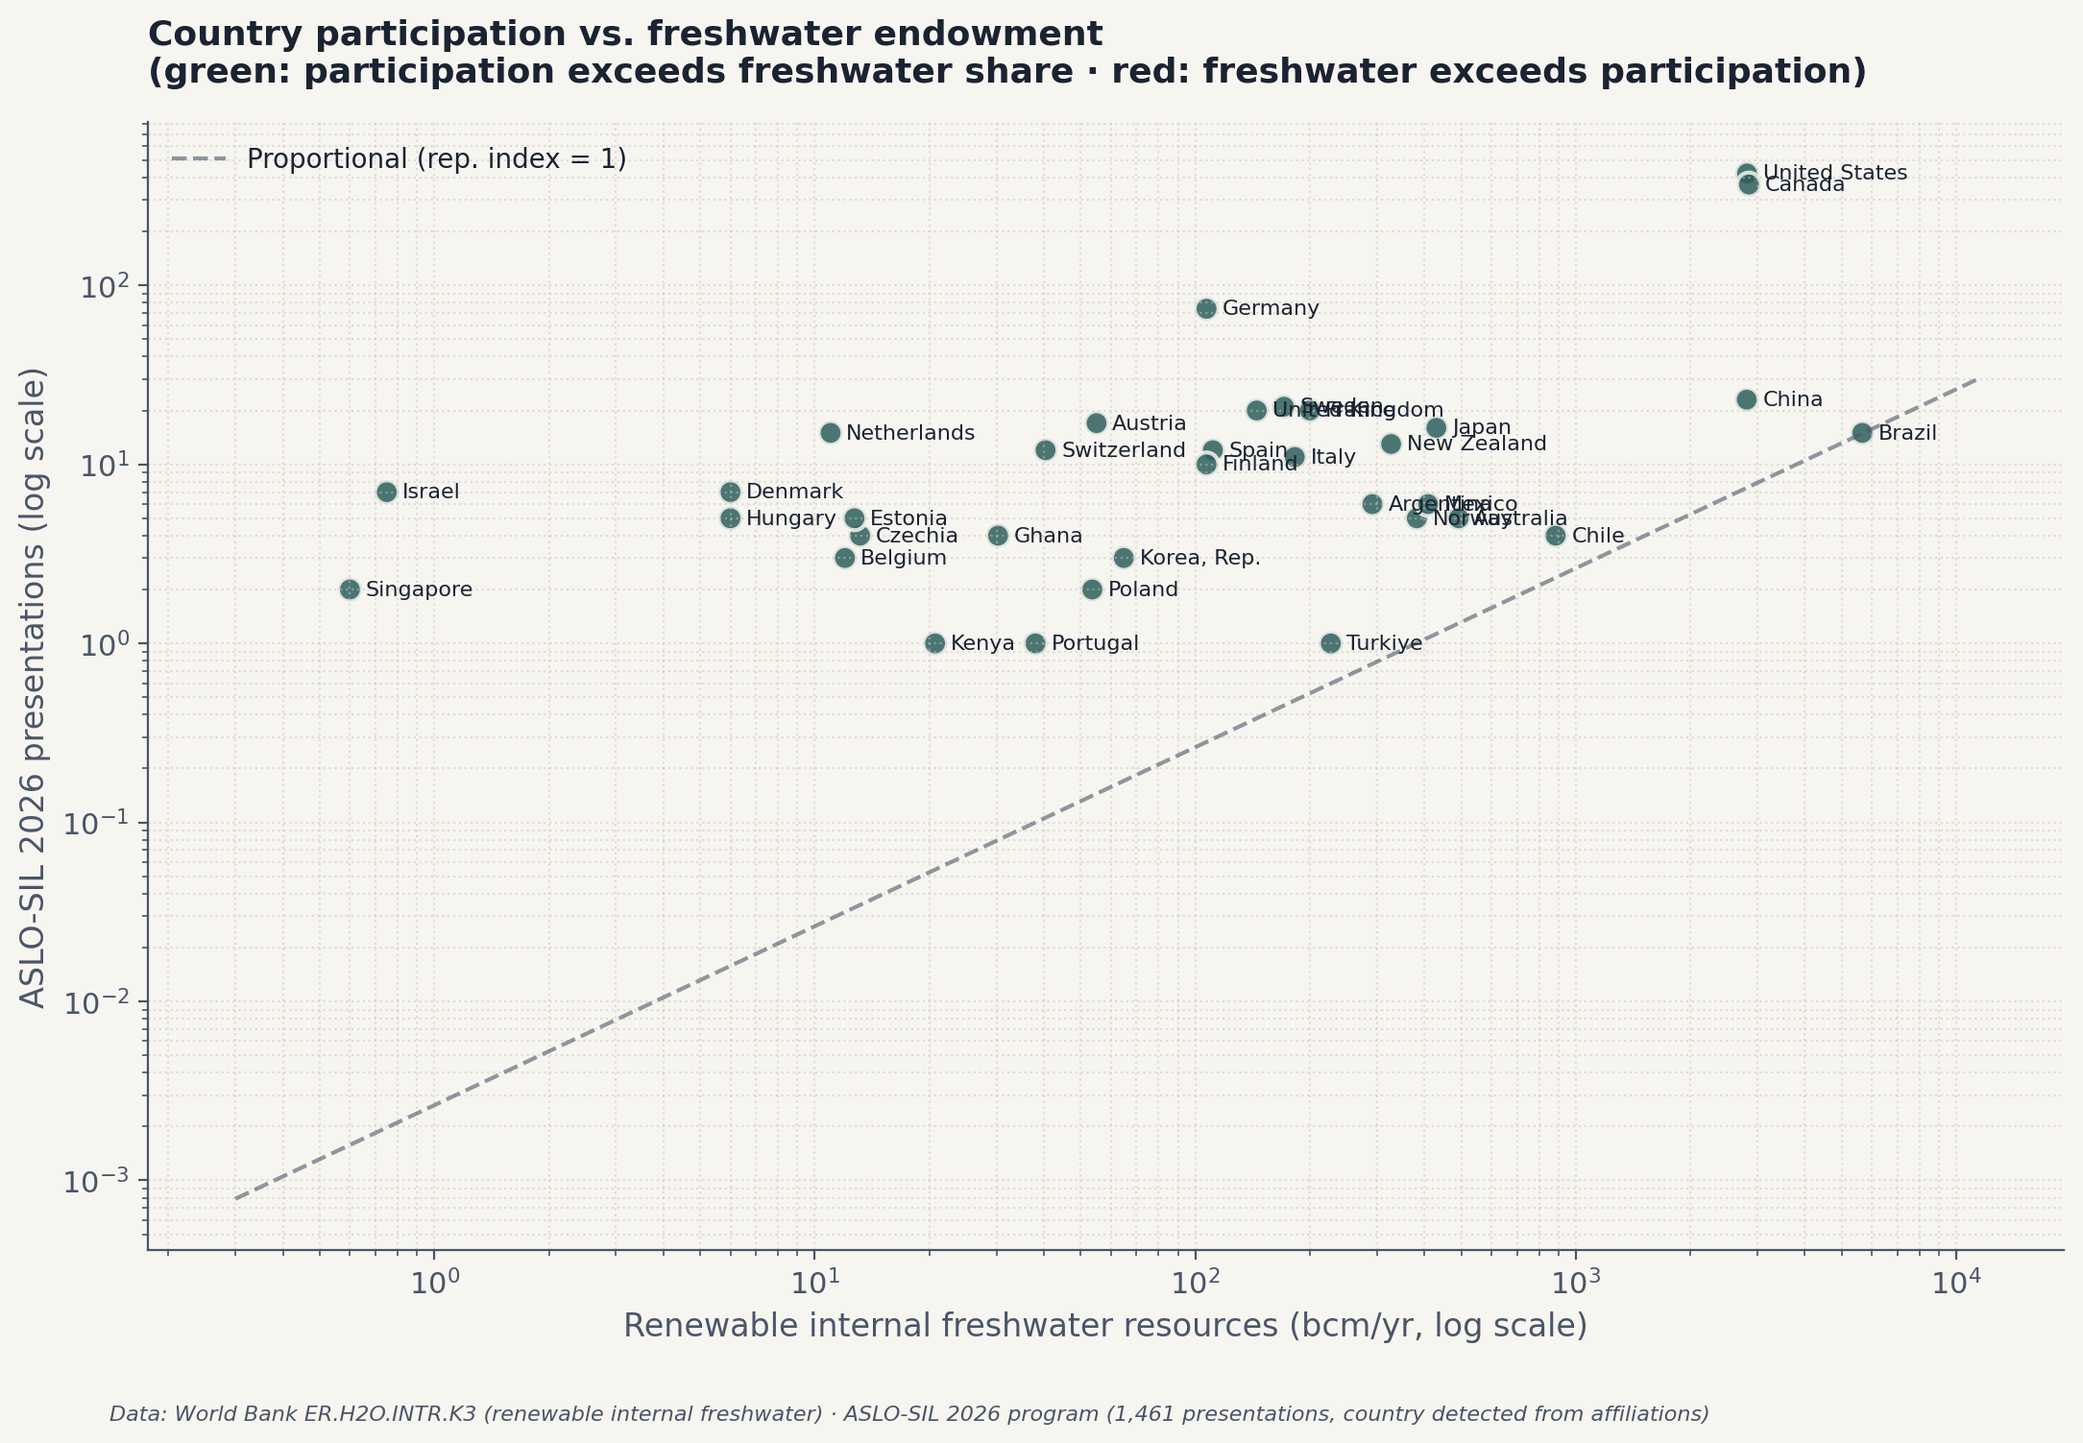
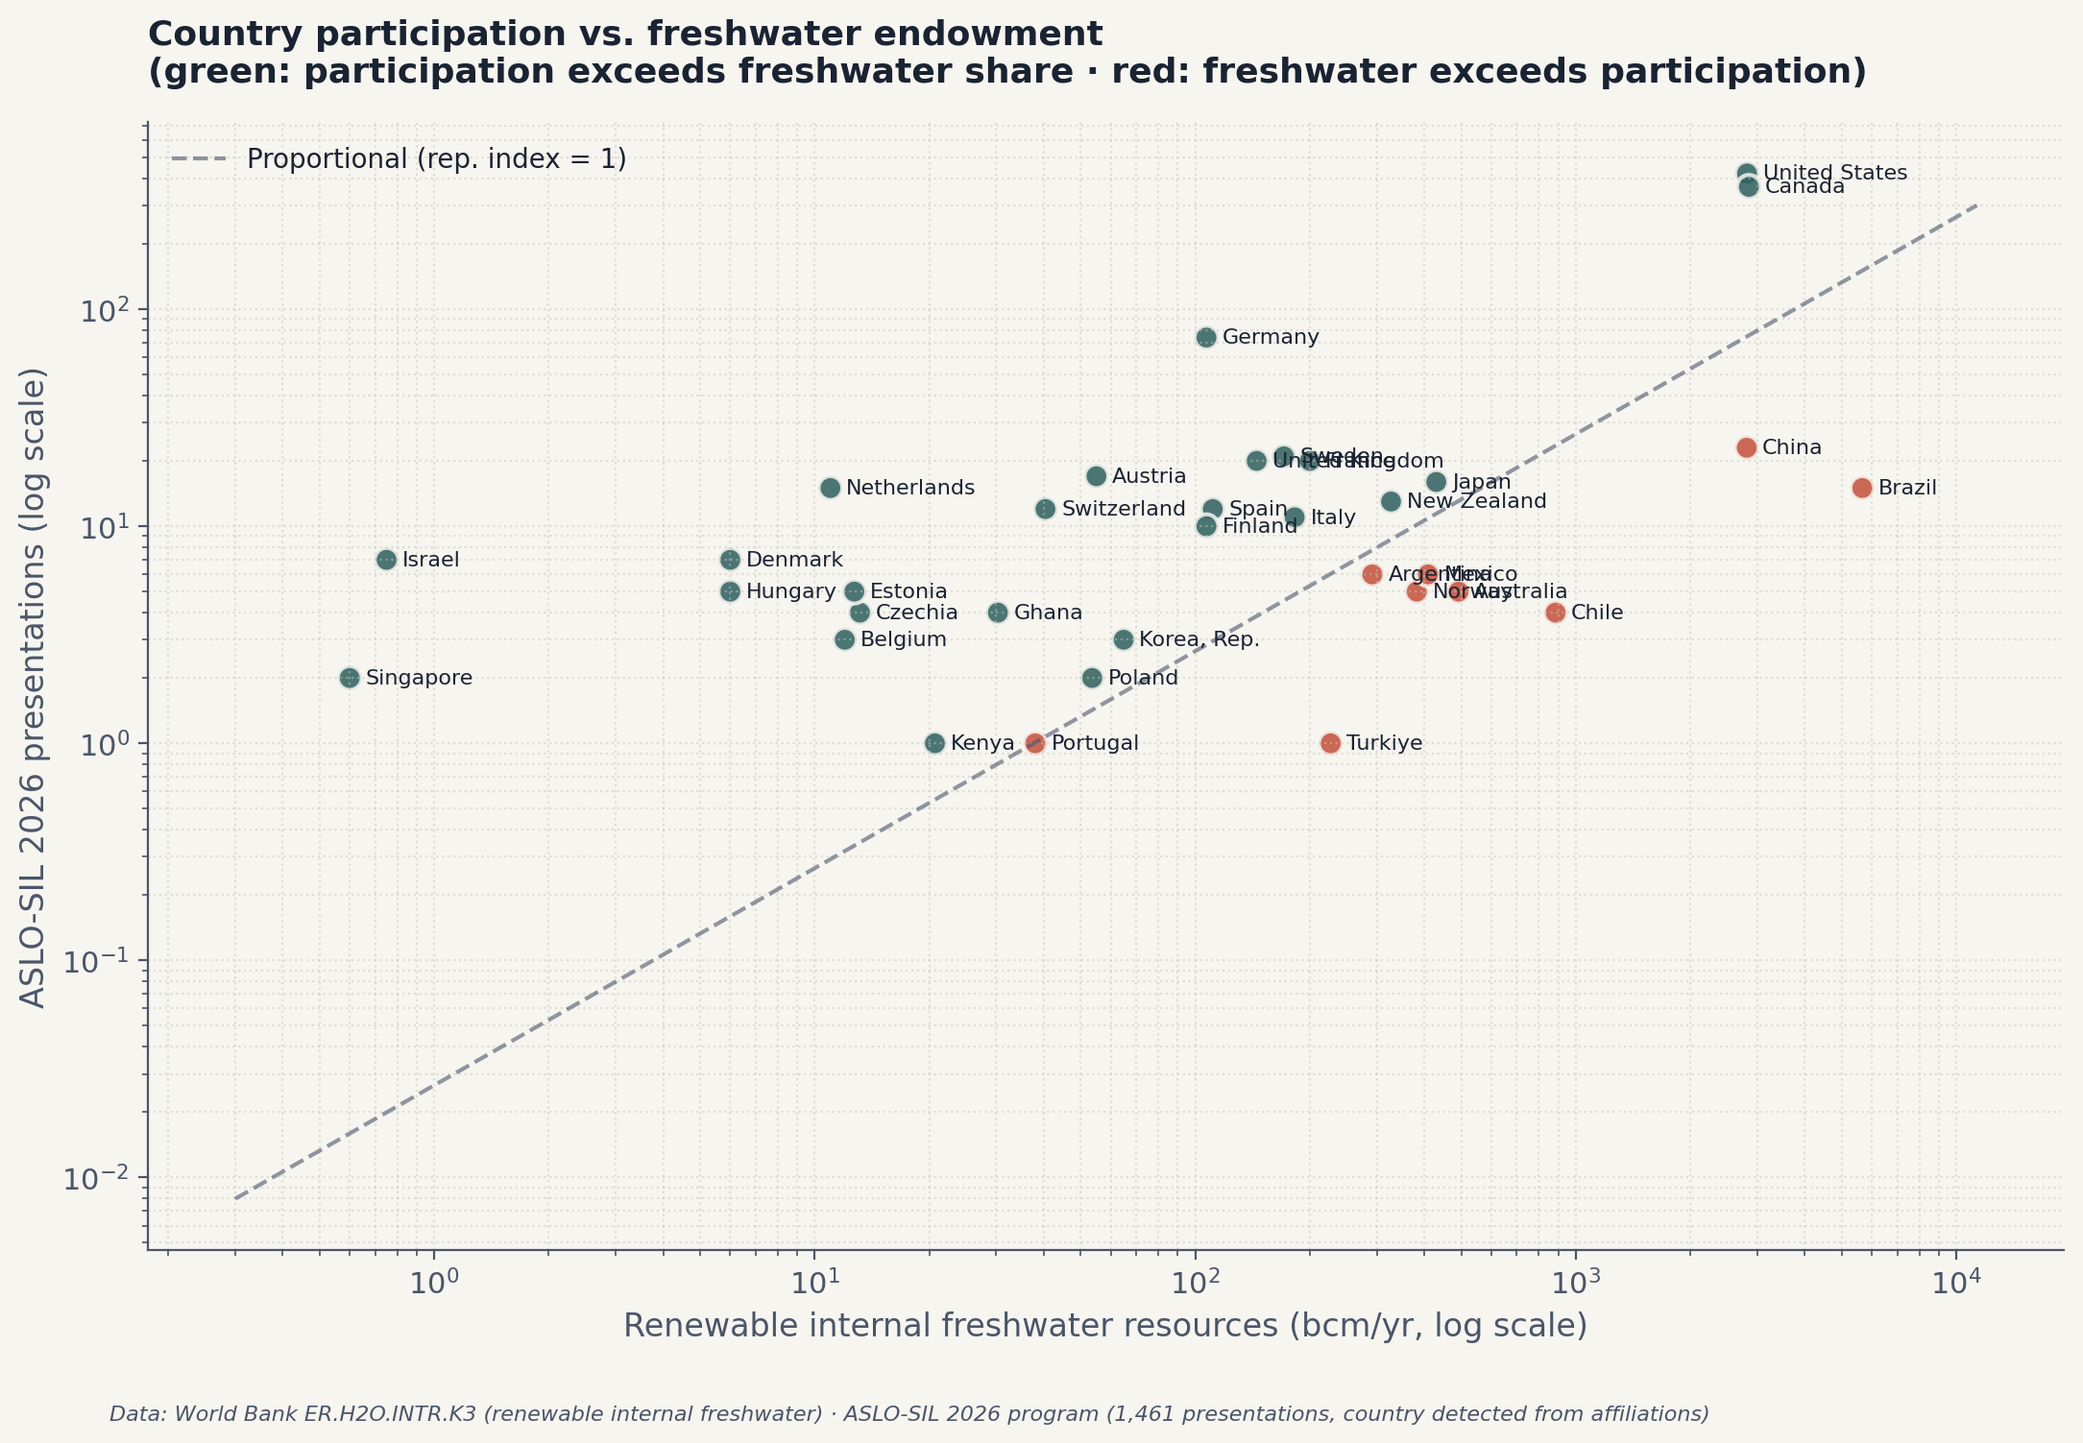
Fix 10x freshwater-denominator error and align README with the audited inventory
scripts/05_freshwater_vs_participation.py summed the World Bank country/all
response, which includes aggregate groupings (regions, income groups, the World
total), inflating the world freshwater total ~10x and skewing every
"% of global FW" and "Rep index". Filter to real countries via WB region
metadata before summing (verified against the live API: real-country total =
42,809 bcm/yr, Brazil 13.2%, Russia 10.1%), then regenerate the report,
representation-index bar, scatter, and JSON table. Per-country freshwater values
were already correct.

README: correct headline counts to the audited inventory (1,461 / 309, not
1,455 / 308; ~720 institutions; Amplifying Voices two-part; 14 equity sessions /
58 talks; ~78% country-detection coverage) and remove the placeholder lab name.

diff --git a/scripts/05_freshwater_vs_participation.py b/scripts/05_freshwater_vs_participation.py
@@ -139,11 +139,30 @@ while True:
         if country and val is not None:
             # Keep the most recent non-null value per country
             if country not in freshwater_bcm or rec.get("date", "0") > freshwater_bcm[country].get("date", "0"):
-                freshwater_bcm[country] = {"value_bcm": val, "date": rec.get("date")}
+                freshwater_bcm[country] = {"value_bcm": val, "date": rec.get("date"),
+                                           "iso3": rec.get("countryiso3code")}
     if page >= page_meta.get("pages", 1):
         break
     page += 1
     time.sleep(0.1)
+
+# Exclude World Bank aggregate groupings (regions, income groups, the World total).
+# The country/all endpoint returns these alongside individual countries; summing
+# them inflated the world freshwater total ~10x. Filter via country region
+# metadata (region.value == "Aggregates"), matching on ISO3 code.
+print("  Filtering out World Bank aggregate groupings ...")
+_meta = requests.get("https://api.worldbank.org/v2/country",
+                     params={"format": "json", "per_page": 400}).json()
+_real_iso3 = set()
+if isinstance(_meta, list) and len(_meta) > 1:
+    for _c in _meta[1]:
+        if (_c.get("region") or {}).get("value") != "Aggregates":
+            _real_iso3.add(_c.get("id"))
+_before = len(freshwater_bcm)
+freshwater_bcm = {name: v for name, v in freshwater_bcm.items()
+                  if v.get("iso3") in _real_iso3}
+print("  Removed {} aggregate rows ({} -> {} real countries)".format(
+    _before - len(freshwater_bcm), _before, len(freshwater_bcm)))
 
 # Flatten: just the numeric value
 fresh = {c: v["value_bcm"] for c, v in freshwater_bcm.items()}
@@ -336,7 +355,9 @@ top_under = sorted([r for r in records if r["rep_index"] is not None and r["aslo
 
 report = """# Country participation vs. freshwater endowment — ASLO-SIL 2026
 
-*Generated 2026-05-11. Data: World Bank ER.H2O.INTR.K3 (renewable internal freshwater resources, billion cubic metres per year) cross-referenced against the ASLO-SIL 2026 program (1,461 presentations, country detected from affiliation strings).*
+*Generated 2026-05-11; corrected 2026-06-11. Data: World Bank ER.H2O.INTR.K3 (renewable internal freshwater resources, billion cubic metres per year) cross-referenced against the ASLO-SIL 2026 program (1,461 presentations, country detected from affiliation strings).*
+
+> **Correction (2026-06-11).** An earlier version summed World Bank rows that include aggregate groupings (regions, income groups, the World total), inflating the world freshwater total ~10x and skewing every "% of global FW" and "Rep index". The pipeline now filters to real countries only (via WB region metadata); the world total is ~42,810 bcm/yr and Brazil holds ~13% of global renewable freshwater (not 1.31%).
 
 ## What this is
 
@@ -356,7 +377,7 @@ The index is **descriptive, not normative.** Low-index countries are not "doing 
 ## Headline numbers
 
 - Total country-detected presentations: **{n_detect}** of {n_total}
-- World renewable internal freshwater (sum of WB country values): **{world:.0f} bcm/yr**
+- World renewable internal freshwater (sum of real-country WB values, excluding aggregate groupings): **{world:,.0f} bcm/yr**
 - Countries represented with both metrics: **{n_match}**
 
 ## Top countries by ASLO presentations (with freshwater context)

diff --git a/output/reports/freshwater_vs_participation.md b/output/reports/freshwater_vs_participation.md
@@ -1,6 +1,8 @@
 # Country participation vs. freshwater endowment — ASLO-SIL 2026
 
-*Generated 2026-05-11. Data: World Bank ER.H2O.INTR.K3 (renewable internal freshwater resources, billion cubic metres per year) cross-referenced against the ASLO-SIL 2026 program (1,461 presentations, country detected from affiliation strings).*
+*Generated 2026-05-11; corrected 2026-06-11. Data: World Bank ER.H2O.INTR.K3 (renewable internal freshwater resources, billion cubic metres per year) cross-referenced against the ASLO-SIL 2026 program (1,461 presentations, country detected from affiliation strings).*
+
+> **Correction (2026-06-11).** An earlier version summed World Bank rows that include aggregate groupings (regions, income groups, the World total), inflating the world freshwater total ~10x and skewing every "% of global FW" and "Rep index". The pipeline now filters to real countries only (via WB region metadata); the world total is ~42,810 bcm/yr and Brazil holds ~13% of global renewable freshwater (not 1.31%).
 
 ## What this is
 
@@ -20,33 +22,33 @@ The index is **descriptive, not normative.** Low-index countries are not "doing 
 ## Headline numbers
 
 - Total country-detected presentations: **1138** of 1461
-- World renewable internal freshwater (sum of WB country values): **432613 bcm/yr**
+- World renewable internal freshwater (sum of real-country WB values, excluding aggregate groupings): **42,809 bcm/yr**
 - Countries represented with both metrics: **34**
 
 ## Top countries by ASLO presentations (with freshwater context)
 
 | Country | Talks | % of ASLO | Freshwater (bcm/yr) | % of global FW | Rep index |
 |---|---:|---:|---:|---:|---:|
-| United States | 422 | 37.1% | 2818 | 0.65% | 56.93 |
-| Canada | 366 | 32.2% | 2850 | 0.66% | 48.82 |
-| Germany | 74 | 6.5% | 107 | 0.02% | 262.91 |
-| China | 23 | 2.0% | 2813 | 0.65% | 3.11 |
-| Sweden | 21 | 1.8% | 171 | 0.04% | 46.69 |
-| United Kingdom | 20 | 1.8% | 145 | 0.03% | 52.43 |
-| France | 20 | 1.8% | 200 | 0.05% | 38.02 |
-| Austria | 17 | 1.5% | 55 | 0.01% | 117.50 |
-| Japan | 16 | 1.4% | 430 | 0.10% | 14.15 |
-| Netherlands | 15 | 1.3% | 11 | 0.00% | 518.39 |
-| Brazil | 15 | 1.3% | 5661 | 1.31% | 1.01 |
-| New Zealand | 13 | 1.1% | 327 | 0.08% | 15.11 |
-| Switzerland | 12 | 1.1% | 40 | 0.01% | 112.92 |
-| Spain | 12 | 1.1% | 111 | 0.03% | 41.02 |
-| Italy | 11 | 1.0% | 182 | 0.04% | 22.91 |
-| Finland | 10 | 0.9% | 107 | 0.02% | 35.53 |
-| Denmark | 7 | 0.6% | 6 | 0.00% | 443.51 |
-| Israel | 7 | 0.6% | 1 | 0.00% | 3548.09 |
-| Argentina | 6 | 0.5% | 292 | 0.07% | 7.81 |
-| Mexico | 6 | 0.5% | 409 | 0.09% | 5.58 |
+| United States | 422 | 37.1% | 2818 | 6.58% | 5.63 |
+| Canada | 366 | 32.2% | 2850 | 6.66% | 4.83 |
+| Germany | 74 | 6.5% | 107 | 0.25% | 26.02 |
+| China | 23 | 2.0% | 2813 | 6.57% | 0.31 |
+| Sweden | 21 | 1.8% | 171 | 0.40% | 4.62 |
+| United Kingdom | 20 | 1.8% | 145 | 0.34% | 5.19 |
+| France | 20 | 1.8% | 200 | 0.47% | 3.76 |
+| Austria | 17 | 1.5% | 55 | 0.13% | 11.63 |
+| Japan | 16 | 1.4% | 430 | 1.00% | 1.40 |
+| Netherlands | 15 | 1.3% | 11 | 0.03% | 51.30 |
+| Brazil | 15 | 1.3% | 5661 | 13.22% | 0.10 |
+| New Zealand | 13 | 1.1% | 327 | 0.76% | 1.50 |
+| Switzerland | 12 | 1.1% | 40 | 0.09% | 11.17 |
+| Spain | 12 | 1.1% | 111 | 0.26% | 4.06 |
+| Italy | 11 | 1.0% | 182 | 0.43% | 2.27 |
+| Finland | 10 | 0.9% | 107 | 0.25% | 3.52 |
+| Denmark | 7 | 0.6% | 6 | 0.01% | 43.89 |
+| Israel | 7 | 0.6% | 1 | 0.00% | 351.10 |
+| Argentina | 6 | 0.5% | 292 | 0.68% | 0.77 |
+| Mexico | 6 | 0.5% | 409 | 0.96% | 0.55 |
 
 ## Countries where the meeting punches well above its freshwater stake
 
@@ -54,16 +56,16 @@ These are countries with strong research investment and historical participation
 
 | Country | Talks | Freshwater (bcm) | Rep index |
 |---|---:|---:|---:|
-| Israel | 7 | 1 | 3548.1 |
-| Singapore | 2 | 1 | 1267.2 |
-| Netherlands | 15 | 11 | 518.4 |
-| Denmark | 7 | 6 | 443.5 |
-| Hungary | 5 | 6 | 316.8 |
-| Germany | 74 | 107 | 262.9 |
-| Estonia | 5 | 13 | 149.5 |
-| Austria | 17 | 55 | 117.5 |
-| Czechia | 4 | 13 | 115.6 |
-| Switzerland | 12 | 40 | 112.9 |
+| Israel | 7 | 1 | 351.1 |
+| Singapore | 2 | 1 | 125.4 |
+| Netherlands | 15 | 11 | 51.3 |
+| Denmark | 7 | 6 | 43.9 |
+| Hungary | 5 | 6 | 31.3 |
+| Germany | 74 | 107 | 26.0 |
+| Estonia | 5 | 13 | 14.8 |
+| Austria | 17 | 55 | 11.6 |
+| Czechia | 4 | 13 | 11.4 |
+| Switzerland | 12 | 40 | 11.2 |
 
 ## Countries with significant freshwater and growing participation
 
@@ -71,16 +73,16 @@ These are countries whose freshwater resources are large relative to their meeti
 
 | Country | Talks | Freshwater (bcm) | % of global FW | Rep index |
 |---|---:|---:|---:|---:|
-| Brazil | 15 | 5661 | 1.31% | 1.01 |
-| Chile | 4 | 885 | 0.20% | 1.72 |
-| China | 23 | 2813 | 0.65% | 3.11 |
-| Australia | 5 | 492 | 0.11% | 3.86 |
-| Norway | 5 | 382 | 0.09% | 4.98 |
-| Mexico | 6 | 409 | 0.09% | 5.58 |
-| Argentina | 6 | 292 | 0.07% | 7.81 |
-| Japan | 16 | 430 | 0.10% | 14.15 |
-| New Zealand | 13 | 327 | 0.08% | 15.11 |
-| Korea, Rep. | 3 | 65 | 0.01% | 17.59 |
+| Brazil | 15 | 5661 | 13.22% | 0.10 |
+| Chile | 4 | 885 | 2.07% | 0.17 |
+| China | 23 | 2813 | 6.57% | 0.31 |
+| Australia | 5 | 492 | 1.15% | 0.38 |
+| Norway | 5 | 382 | 0.89% | 0.49 |
+| Mexico | 6 | 409 | 0.96% | 0.55 |
+| Argentina | 6 | 292 | 0.68% | 0.77 |
+| Japan | 16 | 430 | 1.00% | 1.40 |
+| New Zealand | 13 | 327 | 0.76% | 1.50 |
+| Korea, Rep. | 3 | 65 | 0.15% | 1.74 |
 
 ## Countries with large freshwater resources and no detected ASLO talks
 
@@ -88,21 +90,21 @@ These are the freshwater systems most absent from the room. Each represents a pa
 
 | Country | Freshwater (bcm/yr) | % of global FW |
 |---|---:|---:|
-| Russian Federation | 4312 | 1.00% |
-| Colombia | 2145 | 0.50% |
-| Indonesia | 2019 | 0.47% |
-| Peru | 1641 | 0.38% |
-| India | 1446 | 0.33% |
-| Myanmar | 1003 | 0.23% |
-| Congo, Dem. Rep. | 900 | 0.21% |
-| Venezuela, RB | 805 | 0.19% |
-| Papua New Guinea | 801 | 0.19% |
-| Malaysia | 580 | 0.13% |
-| Philippines | 479 | 0.11% |
-| Ecuador | 442 | 0.10% |
-| Viet Nam | 359 | 0.08% |
-| Madagascar | 337 | 0.08% |
-| Middle East, North Africa, Afghanistan & Pakistan | 333 | 0.08% |
+| Russian Federation | 4312 | 10.07% |
+| Colombia | 2145 | 5.01% |
+| Indonesia | 2019 | 4.72% |
+| Peru | 1641 | 3.83% |
+| India | 1446 | 3.38% |
+| Myanmar | 1003 | 2.34% |
+| Congo, Dem. Rep. | 900 | 2.10% |
+| Venezuela, RB | 805 | 1.88% |
+| Papua New Guinea | 801 | 1.87% |
+| Malaysia | 580 | 1.35% |
+| Philippines | 479 | 1.12% |
+| Ecuador | 442 | 1.03% |
+| Viet Nam | 359 | 0.84% |
+| Madagascar | 337 | 0.79% |
+| Bolivia | 304 | 0.71% |
 
 ## The structural picture
 

diff --git a/README.md b/README.md
@@ -1,6 +1,6 @@
 # ASLO-SIL 2026 conference landscape analysis
 
-A reproducible bibliometric and disciplinary read of the [ASLO-SIL 2026 Joint Meeting](https://www.aslo.org/aslo-sil-2026/), 12-16 May 2026, Palais des congrès de Montréal, Quebec, Canada. 1,455 scheduled presentations across 308 session items, audited against the live conference site on 11 May 2026.
+A reproducible bibliometric and disciplinary read of the [ASLO-SIL 2026 Joint Meeting](https://www.aslo.org/aslo-sil-2026/), 12-16 May 2026, Palais des congrès de Montréal, Quebec, Canada. 1,461 scheduled presentations across 309 session items, audited against the live conference site on 11 May 2026.
 
 ## What's in here
 
@@ -15,11 +15,11 @@ A reproducible bibliometric and disciplinary read of the [ASLO-SIL 2026 Joint Me
 
 ## Headline findings (2026)
 
-- 1,461 indexed presentations across 309 sessions. 1,400 unique presenters, 741 institutions.
+- 1,461 indexed presentations across 309 sessions. 1,400 unique presenters, ~720 institutions.
 - The verbs of the schedule have shifted from *describe* to *integrate*: "multiple stressors" 9x, "bridging the gap" 8x, "towards convergence" 6x as session-name bigrams.
-- Three simultaneous legacy sessions (Pace, Cotner, Elser) paired structurally with early-career scaffolding (Amplifying Voices x4, ECR alliance workshops, "How To" first-timer session).
+- Three simultaneous legacy sessions (Pace, Cotner, Elser) paired structurally with early-career scaffolding (Amplifying Voices x2, ECR alliance workshops, "How To" first-timer session).
 - Freshwater science dominates: lakes + limnology = 28% of all talks, rivers + wetlands = +11%, marine = 9%.
-- Indigenous knowledge ("Two-Eyed Seeing") programmed as a science session, not as a side workshop. 11 sessions and 28 talks carry equity / community-led framings.
+- Indigenous knowledge ("Two-Eyed Seeing") programmed as a science session, not as a side workshop. 14 sessions and 58 talks carry equity / community-led framings.
 - AI/ML adoption modest but pointed (2.4%). eDNA / -omics undertold (3.2%). Long-term monitoring holding at 9%.
 - FT-ICR-MS sub-analysis: 1,746 papers since 2000, 343 in 2025. Saltwater 46% of cumulative corpus; inland waters 17%; wastewater 8%.
 
@@ -28,7 +28,7 @@ A reproducible bibliometric and disciplinary read of the [ASLO-SIL 2026 Joint Me
 - **Geography:** North America 54% of presentations, Europe 17%, Asia 4%, Latin America 2%, Africa 0.3%. High-income countries 74%; lower-middle income 0.3% (5 talks from Philippines/Kenya/India/Indonesia combined).
 - **Gender (name-inferred, with explicit caveats):** of the 88% of presenter names the tool could classify, ~53% female-inferred, ~41% male-inferred. Among session organisers, 56% female-inferred — slightly above the presenter rate.
 - **Equity-content sessions:** 14 sessions (58 talks, 4% of program) explicitly programme Indigenous knowledge, equity, community-led, or citizen science. EP013 Two-Eyed Seeing sits as a peer to the Pace/Cotner/Elser legacy sessions.
-- **ECR scaffolding:** 32 sessions (88 talks, 6%) — Amplifying Voices x4, ECR alliance workshops, "How To" first-timer guides, mentorship cafes.
+- **ECR scaffolding:** 32 sessions (88 talks, 6%) — Amplifying Voices x2, ECR alliance workshops, "How To" first-timer guides, mentorship cafes.
 - **Institutional type:** 72% university, 8% research institute, <1% government/industry/NGO.
 
 See `output/reports/dei_sweep.md` for full methodology, gender-by-continent breakdown, and limitations (name-inference biases, country-detection coverage, what this analysis is *not*).
@@ -106,7 +106,7 @@ See `docs/openalex_replication_guide.md` for a step-by-step explainer of OpenAle
 ## Methodology notes & caveats
 
 - **Multi-label vs single-label classification.** Theme tags (biogeochem, microbial, methods, disturbance) are multi-label — a paper can carry several — so theme percentages do not sum to 100%. Habitat classification (saltwater / inland / terrestrial / applied) is single-label — each paper is in exactly one category, summing to 100%.
-- **Country detection** is keyword-based on affiliation strings and email-domain TLDs. Coverage is ~75%; small countries are likely undercounted.
+- **Country detection** is keyword-based on affiliation strings and email-domain TLDs. Coverage is ~78%; small countries are likely undercounted.
 - **Methods are systematically undertold in titles** because most presentation titles describe findings, not instruments. The true methodological intensity of the meeting is higher than the per-presentation method counts suggest.
 - **Captured-vs-live audit (May 11, 2026)** showed 8 entries in our scrape that have since been withdrawn from the live program. These are pruned in the analysis; the record is preserved in `data/pruned_withdrawals.json`.
 
@@ -127,5 +127,5 @@ See `LICENSE` for details.
 
 ## Author
 
-Erika C. Freeman, Group Leader, ABC Lab, Leibniz Institute of Freshwater Ecology and Inland Fisheries (IGB) Berlin.
+Erika C. Freeman, Group Leader, Leibniz Institute of Freshwater Ecology and Inland Fisheries (IGB) Berlin.
 [ORCID 0000-0001-7161-6038](https://orcid.org/0000-0001-7161-6038)
